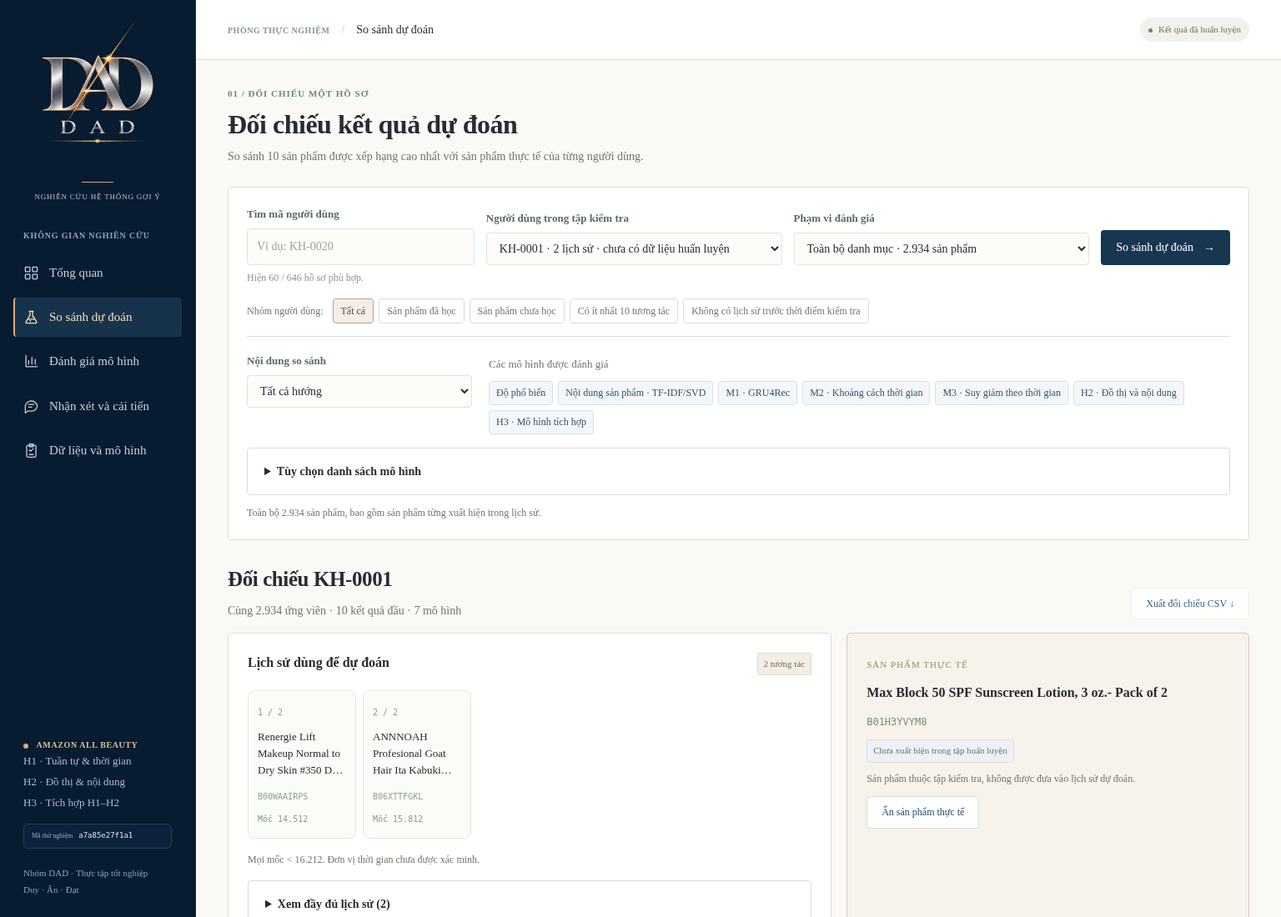
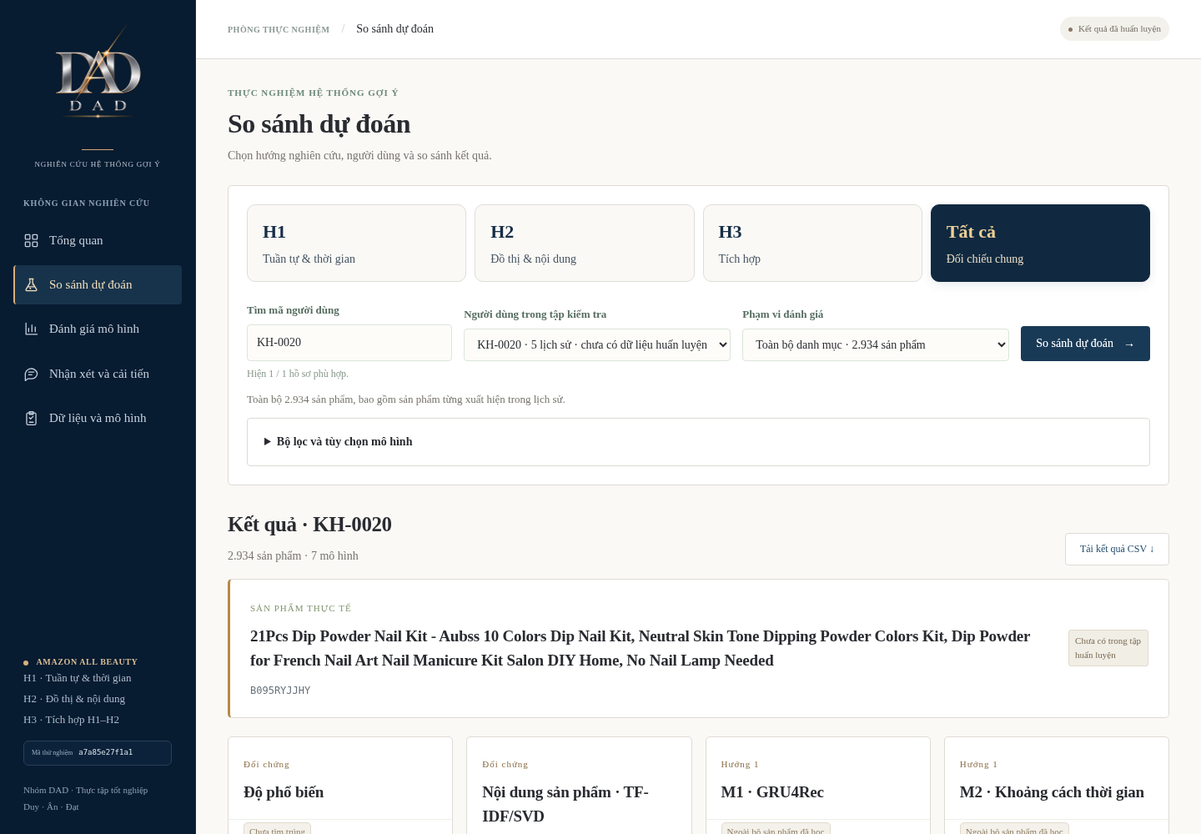
Streamline research demo with H1 H2 H3 tabs and direct comparison

diff --git a/web/static/app.js b/web/static/app.js
@@ -25,7 +25,7 @@ const routes = {
 const state = {
   bootstrap: null,
   study: null,
-  modelGroup: "all",
+  modelGroup: "h1",
   route: "overview",
   profile: "",
   query: "",
@@ -144,9 +144,9 @@ function experiment() {
   const b = state.bootstrap;
   $("#main").innerHTML =
     heading(
-      "01 / ĐỐI CHIẾU MỘT HỒ SƠ",
-      "Đối chiếu kết quả dự đoán",
-      "So sánh 10 sản phẩm được xếp hạng cao nhất với sản phẩm thực tế của từng người dùng.",
+      "THỰC NGHIỆM HỆ THỐNG GỢI Ý",
+      "So sánh dự đoán",
+      "Chọn hướng nghiên cứu, người dùng và so sánh kết quả.",
     ) +
     `<form id="experiment-form" class="panel experiment-controls"><div class="control-grid"><div><label for="profile-search">Tìm mã người dùng</label><input id="profile-search" placeholder="Ví dụ: KH-0020" value="${h(state.query)}" autocomplete="off"></div><div><label for="profile-select">Người dùng trong tập kiểm tra</label><select id="profile-select" required><option value="">Đang đọc hồ sơ…</option></select></div><div><label for="experiment-protocol">Phạm vi đánh giá</label><select id="experiment-protocol">${protocolOptions(state.protocol)}</select></div><button type="submit" class="btn" id="run-button">So sánh dự đoán <span>→</span></button></div><div class="profile-feedback" id="profile-feedback">Đang tải danh sách…</div><div class="presets"><span>Nhóm người dùng:</span>${[
       ["all", "Tất cả"],
@@ -162,6 +162,23 @@ function experiment() {
       .join(
         "",
       )} </div><div class="experiment-scope"><div><label for="model-group">Nội dung so sánh</label><select id="model-group">${state.study.groups.map((g) => `<option value="${g.id}" ${state.modelGroup === g.id ? "selected" : ""}>${h(g.label)}</option>`).join("")}<option value="custom" ${state.modelGroup === "custom" ? "selected" : ""}>Tùy chọn mô hình</option></select></div><div><span class="models-label">Các mô hình được đánh giá</span><div id="selected-models" class="selected-models">${state.selected.map((id) => `<span>${h(model(id).name)}</span>`).join("")}</div></div></div><details class="disclosure"><summary>Tùy chọn danh sách mô hình</summary><div class="model-options">${b.models.map((m) => `<label class="model-option"><input type="checkbox" name="model" value="${m.id}" ${state.selected.includes(m.id) ? "checked" : ""}>${h(m.name)}</label>`).join("")}</div></details><p class="protocol-note" id="protocol-note">${h(b.protocols[state.protocol])}</p></form><section id="case-output" aria-live="polite">${emptyCase()}</section>`;
+  const tabs = document.createElement("div");
+  tabs.className = "direction-tabs";
+  tabs.setAttribute("aria-label", "Hướng nghiên cứu");
+  tabs.innerHTML = [["h1", "H1", "Tuần tự & thời gian"], ["h2", "H2", "Đồ thị & nội dung"], ["h3", "H3", "Tích hợp"], ["all", "Tất cả", "Đối chiếu chung"]].map(([id, title, label]) => `<button type="button" data-group="${id}" aria-pressed="${state.modelGroup === id}"><strong>${title}</strong><span>${label}</span></button>`).join("");
+  $("#experiment-form").prepend(tabs);
+  tabs.addEventListener("click", (e) => {
+    const button = e.target.closest("[data-group]");
+    if (!button) return;
+    $("#model-group").value = button.dataset.group;
+    $("#model-group").dispatchEvent(new Event("change"));
+  });
+  const advanced = document.createElement("details");
+  advanced.className = "disclosure advanced-controls";
+  advanced.innerHTML = "<summary>Bộ lọc và tùy chọn mô hình</summary>";
+  const form = $("#experiment-form");
+  [$(".presets", form), $(".experiment-scope", form), $(".disclosure", form)].forEach((el) => advanced.append(el));
+  form.append(advanced);
   $("#model-group").addEventListener("change", (e) => {
     state.modelGroup = e.target.value;
     const group = state.study.groups.find((g) => g.id === state.modelGroup);
@@ -202,6 +219,7 @@ function experiment() {
   if (state.case) renderCase(state.case);
 }
 function refreshSelectedModels() {
+  $$("[data-group]").forEach((button) => button.setAttribute("aria-pressed", String(button.dataset.group === state.modelGroup)));
   const el = $("#selected-models");
   if (el)
     el.innerHTML = state.selected
@@ -299,11 +317,17 @@ async function runCase(event) {
   }
 }
 function renderCase(data) {
-  const reveal = state.reveal;
-  const history = data.history.slice(-12);
-  const total = data.history.length;
-  $("#case-output").innerHTML =
-    `<div class="section-heading"><div><h2>Đối chiếu ${h(data.profile_id)}</h2><p>Cùng ${num(data.candidate_count)} ứng viên · 10 kết quả đầu · ${data.results.length} mô hình</p></div><button class="btn btn-outline btn-small" data-action="case-csv" ${!reveal ? "disabled" : ""}>Xuất đối chiếu CSV ↓</button></div><div class="case-context"><div class="panel"><div class="history-header"><span class="profile-title">Lịch sử dùng để dự đoán</span><span class="tag">${total} tương tác</span></div>${total ? `<div class="history-timeline">${history.map((item, i) => `<div class="history-item"><small>${num(total - history.length + i + 1)} / ${total}</small><p title="${h(item.title)}">${h(item.title)}</p><code>${h(item.item_id)}</code><div><small>Mốc ${num(item.timestamp)}</small></div></div>`).join("")}</div><div class="history-info">${total > 12 ? "Hiển thị 12 tương tác cuối. " : ""}Mọi mốc &lt; ${num(data.cutoff)}. Đơn vị thời gian chưa được xác minh.</div>` : `<div class="notice notice-warning">Không có tương tác trước thời điểm kiểm tra. Các mô hình sử dụng cùng phương án dự phòng theo độ phổ biến.</div>`}<details class="disclosure"><summary>Xem đầy đủ lịch sử (${total})</summary><div class="table-wrap"><table class="metrics-table"><thead><tr><th>Thứ tự</th><th>Sản phẩm</th><th>Mốc số</th></tr></thead><tbody>${data.history.map((x, i) => `<tr><td>${i + 1}</td><td>${h(x.title)}</td><td>${num(x.timestamp)}</td></tr>`).join("")}</tbody></table></div></details></div><div class="panel target-panel"><span class="target-label">SẢN PHẨM THỰC TẾ</span>${reveal ? `<p class="target-name">${h(data.target.title)}</p><code class="target-id">${h(data.target.item_id)}</code><div><span class="tag ${data.target.warm ? "" : "tag-blue"}">${data.target.warm ? "Đã xuất hiện trong tập huấn luyện" : "Chưa xuất hiện trong tập huấn luyện"}</span></div><p class="history-info">Sản phẩm thuộc tập kiểm tra, không được đưa vào lịch sử dự đoán.</p><button class="btn btn-outline btn-small" data-action="reveal">Ẩn sản phẩm thực tế</button>` : `<h3 style="margin-top:16px">Sản phẩm cần dự đoán</h3><button class="btn" data-action="reveal">Hiện sản phẩm thực tế →</button>`}</div></div>${reveal ? `<div class="notice ${!data.target.warm ? "notice-warning" : ""}"><strong>Đặc điểm dữ liệu.</strong> ${data.fallback ? "Không có lịch sử trước thời điểm kiểm tra. Các mô hình sử dụng cùng phương án dự phòng theo độ phổ biến. " : !data.target.warm ? "Sản phẩm thực tế chưa có trong tập huấn luyện. M1/M2/M3 chưa học đầu ra cho sản phẩm này. Các sản phẩm mới bằng điểm được xếp theo mã; H2 và mô hình nội dung sử dụng đặc trưng tiêu đề." : data.history.length <= 2 ? "Sản phẩm đã có trong tập huấn luyện; lịch sử người dùng có tối đa hai tương tác. " : "Sản phẩm đã có trong tập huấn luyện và người dùng có lịch sử trước thời điểm kiểm tra. "}</div>` : ""}<div class="run-meta"><span>Mã thực nghiệm ${h(data.run_id)} · Điểm dự đoán đã lưu</span><span>Xếp hạng phía máy chủ: ${num(data.server_ms, 2)} ms · Thời gian nhận kết quả: ${num(data.roundtrip_ms, 1)} ms</span></div><div class="comparison-grid">${data.results.map((result) => `<article class="model-card"><header class="model-card-head"><div><span class="model-family">${h(model(result.model).family)}</span><h3>${h(result.name)}</h3></div><span class="hit-badge ${!reveal || !result.hit10 ? "miss-badge" : ""}">${!reveal ? "Chưa đối chiếu" : result.uses_fallback ? "Dùng phương án dự phòng" : result.target_in_learned_output === false ? "Sản phẩm ngoài bộ đã học" : result.hit10 ? "Trúng 10 kết quả đầu" : "Chưa trúng"}</span></header><ol class="ranking-list">${result.top10.map((item) => `<li class="ranking-item ${reveal && item.is_target ? "target" : ""}"><span class="ranking-pos">${String(item.rank).padStart(2, "0")}</span><div><span class="ranking-title" title="${h(item.title)}">${h(item.title)}</span><small>${h(item.item_id)} ${reveal && item.is_target ? "· SẢN PHẨM THỰC TẾ" : ""}</small></div></li>`).join("")}</ol><footer class="model-footer"><span>${reveal ? (result.target_in_learned_output === false && !result.uses_fallback ? "Không có đầu ra đã học cho sản phẩm này" : `Sản phẩm thực tế: hạng ${num(result.rank)} / ${num(data.candidate_count)}`) : "Chưa hiện sản phẩm thực tế"}</span><span>${reveal ? `NDCG ${decimal(result.ndcg10)}` : "10 kết quả đầu"}</span></footer></article>`).join("")}</div><a href="#results" class="btn btn-outline">Xem kết quả toàn tập →</a>`;
+  state.reveal = true;
+  const itemRow = (item) => `<li class="ranking-item ${item.is_target ? "target" : ""}"><span class="ranking-pos">${String(item.rank).padStart(2, "0")}</span><div><span class="ranking-title" title="${h(item.title)}">${h(item.title)}</span><small>${h(item.item_id)}${item.is_target ? " · SẢN PHẨM THỰC TẾ" : ""}</small></div></li>`;
+  $("#case-output").innerHTML = `<div class="section-heading"><div><h2>Kết quả · ${h(data.profile_id)}</h2><p>${num(data.candidate_count)} sản phẩm · ${data.results.length} mô hình</p></div><button class="btn btn-outline btn-small" data-action="case-csv">Tải kết quả CSV ↓</button></div>
+    <div class="panel compact-target"><div><span class="target-label">SẢN PHẨM THỰC TẾ</span><h3>${h(data.target.title)}</h3><code>${h(data.target.item_id)}</code></div><span class="tag">${data.target.warm ? "Đã có trong tập huấn luyện" : "Chưa có trong tập huấn luyện"}</span></div>
+    ${data.fallback ? '<div class="notice notice-warning">Không có tương tác trước thời điểm kiểm tra. Các mô hình dùng chung dự phòng theo độ phổ biến.</div>' : ""}
+    <div class="comparison-grid compact-comparison">${data.results.map((result) => {
+      const unsupported = result.target_in_learned_output === false && !result.uses_fallback;
+      const badge = result.uses_fallback ? "Dự phòng theo độ phổ biến" : unsupported ? "Ngoài bộ sản phẩm đã học" : result.hit10 ? "Tìm trúng trong 10 kết quả" : "Chưa tìm trúng";
+      return `<article class="model-card"><header class="model-card-head"><div><span class="model-family">${h(model(result.model).family)}</span><h3>${h(result.name)}</h3></div></header><div class="compact-score"><span class="hit-badge ${result.hit10 ? "" : "miss-badge"}">${badge}</span><p>${unsupported ? "Không có đầu ra đã học" : `Hạng ${num(result.rank)} / ${num(data.candidate_count)}`}<span>NDCG ${decimal(result.ndcg10)}</span></p></div><ol class="ranking-list">${result.top10.slice(0, 5).map(itemRow).join("")}</ol><details class="ranking-more"><summary>Xem hạng 6–10</summary><ol class="ranking-list">${result.top10.slice(5).map(itemRow).join("")}</ol></details></article>`;
+    }).join("")}</div>
+    <details class="disclosure"><summary>Lịch sử và thông tin thực nghiệm · ${data.history.length} tương tác</summary><div class="table-wrap"><table class="metrics-table"><thead><tr><th>Sản phẩm</th><th>Mốc số</th></tr></thead><tbody>${data.history.map((item) => `<tr><td>${h(item.title)}</td><td>${num(item.timestamp)}</td></tr>`).join("")}</tbody></table></div><p>Chỉ dùng lịch sử trước mốc ${num(data.cutoff)}; đơn vị thời gian chưa được xác minh. Sản phẩm thực tế thuộc tập kiểm tra.</p><p>Đối chiếu điểm dự đoán đã lưu, không huấn luyện lại. Mã ${h(data.run_id)} · Xếp hạng máy chủ ${num(data.server_ms, 2)} ms.</p></details><a href="#results" class="btn btn-outline">Xem đánh giá toàn tập →</a>`;
 }
 async function results() {
   const generation = state.generation;
@@ -341,7 +365,7 @@ async function results() {
         `/api/export/report.md?protocol=${protocol}&cohort=${cohort}`;
       const rows = coreRows(data.rows);
       $("#metrics-body").innerHTML =
-        `<div class="panel">${metricsTable(rows)}<p class="table-caption">Tìm trúng / số người dùng: số trường hợp dự đoán đúng trong 10 kết quả đầu trên tổng số người được đánh giá.</p></div>${metricLegend()}<details class="disclosure"><summary>Khoảng tin cậy của điểm thứ hạng</summary><div class="table-wrap"><table class="metrics-table"><thead><tr><th>Mô hình</th><th>NDCG@10</th><th>Khoảng tin cậy 95%</th></tr></thead><tbody>${rows.map((r) => `<tr><td>${h(model(r.model).name)}</td><td>${decimal(r.ndcg10)}</td><td>${decimal(r.ndcg_ci_low)} – ${decimal(r.ndcg_ci_high)}</td></tr>`).join("")}</tbody></table></div><p class="table-caption">Lấy mẫu lại theo người dùng, 500 lần; một lần khởi tạo huấn luyện.</p></details><div class="section-heading"><div><h2>So sánh NDCG@10</h2><p>Chất lượng thứ hạng của sản phẩm thực tế trong 10 kết quả đầu.</p></div></div><div class="panel">${bars(rows)}</div><div class="notice notice-warning"><strong>Cấu hình hiện tại.</strong> H2 sử dụng LightGCN và TF-IDF/SVD, chưa triển khai MiniLM. H3 có kết quả trùng mô hình đối chứng theo nội dung.</div><details class="disclosure"><summary>Cấu hình phụ và chênh lệch chỉ số</summary><div>${metricsTable(
+        `<div class="panel">${metricsTable(rows)}<p class="table-caption">Tìm trúng / số người dùng: số trường hợp dự đoán đúng trong 10 kết quả đầu trên tổng số người được đánh giá.</p></div><details class="disclosure"><summary>Ý nghĩa các chỉ số</summary>${metricLegend()}</details><details class="disclosure"><summary>Khoảng tin cậy của điểm thứ hạng</summary><div class="table-wrap"><table class="metrics-table"><thead><tr><th>Mô hình</th><th>NDCG@10</th><th>Khoảng tin cậy 95%</th></tr></thead><tbody>${rows.map((r) => `<tr><td>${h(model(r.model).name)}</td><td>${decimal(r.ndcg10)}</td><td>${decimal(r.ndcg_ci_low)} – ${decimal(r.ndcg_ci_high)}</td></tr>`).join("")}</tbody></table></div><p class="table-caption">Lấy mẫu lại theo người dùng, 500 lần; một lần khởi tạo huấn luyện.</p></details><div class="section-heading"><div><h2>So sánh NDCG@10</h2><p>Chất lượng thứ hạng của sản phẩm thực tế trong 10 kết quả đầu.</p></div></div><div class="panel">${bars(rows)}</div><div class="notice notice-warning"><strong>Cấu hình hiện tại.</strong> H2 sử dụng LightGCN và TF-IDF/SVD, chưa triển khai MiniLM. H3 có kết quả trùng mô hình đối chứng theo nội dung.</div><details class="disclosure"><summary>Cấu hình phụ và chênh lệch chỉ số</summary><div>${metricsTable(
           data.rows.filter(
             (r) => !state.bootstrap.default_models.includes(r.model),
           ),
@@ -493,6 +517,17 @@ async function methodology() {
     )
     .join("")}</div>
   <div class="section-heading"><div><h2>Diễn biến huấn luyện trên tập xác thực</h2><p>Các đường cong được lấy từ nhật ký huấn luyện đã lưu.</p></div></div><div id="training-charts">${loading()}</div><details class="disclosure"><summary>Điều kiện đánh giá</summary><div><p class="small">${h(data.time_status)}</p><p class="small">${h(data.metadata_status)}</p><p class="small">${h(b.protocols.full_catalog)} ${h(b.protocols.sampled100)}</p><p class="small">Cấu hình được chọn trên tập xác thực. Kết quả kiểm tra không được dùng để học lại trọng số.</p></div></details><div class="download-row" style="margin-top:18px"><a class="btn" href="/api/export/report.md">Tải báo cáo thực nghiệm</a><a class="btn btn-outline" href="/api/export/metrics.csv">Tải bảng kết quả</a></div>`;
+  $$(".model-definition").forEach((card) => {
+    const head = $(".model-definition-head", card);
+    const details = document.createElement("details");
+    details.className = "compact-definition";
+    const summary = document.createElement("summary");
+    summary.innerHTML = head.innerHTML;
+    head.remove();
+    details.append(summary);
+    while (card.firstChild) details.append(card.firstChild);
+    card.append(details);
+  });
   try {
     const data = await api("/api/training");
     if (generation !== state.generation) return;
@@ -568,7 +603,7 @@ function closeMenu() {
 function render() {
   if (!state.bootstrap) return;
   state.generation++;
-  const route = location.hash.slice(1) || "overview";
+  const route = location.hash.slice(1) || "experiment";
   state.route = routes[route] ? route : "overview";
   $("#view-title").textContent = routes[state.route];
   $$("[data-nav]").forEach((el) => {
@@ -621,7 +656,7 @@ async function init() {
       api("/api/bootstrap"),
       api("/api/study"),
     ]);
-    state.selected = [...state.bootstrap.default_models];
+    state.selected = [...state.study.groups.find((g) => g.id === "h1").models];
     $("#run-id").textContent = state.bootstrap.run_id;
     render();
   } catch (err) {

diff --git a/web/static/style.css b/web/static/style.css
@@ -2445,3 +2445,28 @@ select {
   }
 }
 .model-definition .metrics-table td:first-child{white-space:normal}
+
+/* Compact research workspace: keep evidence available without crowding controls. */
+.direction-tabs{display:grid;grid-template-columns:repeat(4,minmax(0,1fr));gap:10px;margin-bottom:24px}
+.direction-tabs button{display:flex;flex-direction:column;align-items:flex-start;gap:5px;padding:15px 18px;border:1px solid var(--line,#deddd7);border-radius:10px;background:#faf9f6;color:#455361;font:inherit;cursor:pointer;text-align:left}
+.direction-tabs button strong{font-size:22px;color:#172e45}
+.direction-tabs button span{font-size:14px}
+.direction-tabs button[aria-pressed="true"]{background:#102940;border-color:#102940;color:#e9ddc8;box-shadow:0 4px 12px #10294018}
+.direction-tabs button[aria-pressed="true"] strong{color:#edcf94}
+.direction-tabs button:focus-visible{outline:3px solid #b58a43;outline-offset:3px}
+.advanced-controls{margin-top:12px}.advanced-controls>.presets{margin-top:18px}
+.compact-target{display:flex;justify-content:space-between;align-items:center;gap:20px;padding:20px 24px;margin-bottom:22px;border-left:3px solid #b58a43}
+.compact-target h3{margin:7px 0;font-size:19px}.compact-target code{font-size:12px;color:#66717a}
+.compact-comparison{gap:16px}
+.compact-comparison{grid-template-columns:repeat(auto-fit,minmax(240px,1fr))}
+.compact-comparison .model-card-head{min-height:90px;padding:18px;display:block}
+.compact-comparison .model-card-head h3{font-size:19px;margin-top:6px}
+.compact-score{padding:0 18px 12px}.compact-score p{display:flex;justify-content:space-between;flex-wrap:wrap;gap:6px;font-size:13px;color:#6b7278;margin:12px 0 0}
+.compact-comparison .ranking-item{padding:12px 16px;min-height:65px}
+.ranking-more summary{cursor:pointer;padding:14px 18px;color:#82612e;font-weight:600;border-top:1px solid #ece8e0}
+.compact-comparison+.disclosure{margin:20px 0}
+.experiment-controls .protocol-note{font-size:13px;margin-bottom:0}
+@media(min-width:1000px){.dad-logo{width:145px;height:145px}.dad-brand{padding-top:6px}.page-heading{margin-bottom:24px}}
+@media(max-width:600px){.direction-tabs{gap:8px}.direction-tabs{grid-template-columns:repeat(2,minmax(0,1fr))}.direction-tabs button{padding:12px}.direction-tabs button strong{font-size:19px}.direction-tabs button span{font-size:12px}.compact-target{align-items:flex-start;flex-direction:column;padding:18px}.compact-comparison{grid-template-columns:minmax(0,1fr)}}
+
+.compact-definition>summary{cursor:pointer;padding:4px 0;color:#243c50}.compact-definition>summary h3{display:inline;font-size:21px}.compact-definition>summary>span{display:block;font-size:14px;color:#737b80;margin:8px 0 0 20px}.compact-definition[open]>summary{margin-bottom:22px}

diff --git a/web/index.html b/web/index.html
@@ -16,7 +16,7 @@
   <body>
     <a class="skip" href="#main">Đến nội dung chính</a>
     <aside class="sidebar" id="sidebar">
-      <a class="brand dad-brand" href="#overview" aria-label="DAD — Tổng quan">
+      <a class="brand dad-brand" href="#experiment" aria-label="DAD — Thực nghiệm">
         <img
           class="dad-logo"
           src="/static/dad-logo-transparent.png?v=__ASSET_VERSION__"

diff --git a/scripts/browser_smoke.py b/scripts/browser_smoke.py
@@ -1,68 +1,54 @@
-"""Optional browser acceptance check; requires Playwright and local Chromium."""
-import argparse
+"""Exercise the compact research workspace on desktop and mobile."""
+import os
 from pathlib import Path
 from playwright.sync_api import sync_playwright
 
-ROOT=Path(__file__).resolve().parents[1]
-def main(base):
-    errors=[]
+ROOT = Path(__file__).resolve().parents[1]
+BASE = os.getenv('BASE_URL', 'http://127.0.0.1:8000')
+
+def main():
     with sync_playwright() as p:
-        browser=p.chromium.launch(executable_path='/usr/bin/chromium',headless=True,args=['--no-sandbox'])
-        page=browser.new_page(viewport={'width':1536,'height':1100});page.on('pageerror',lambda e:errors.append(str(e)))
-        page.goto(base,wait_until='networkidle')
-        page.get_by_role('heading',name='Ba hướng thực nghiệm').wait_for()
-        assert 'DAD' in page.title()
-        page.screenshot(path=str(ROOT/'docs/screenshots/research-web-overview.png'))
-        page.locator('a[data-nav=experiment]').click()
+        browser = p.chromium.launch(executable_path='/usr/bin/chromium', headless=True, args=['--no-sandbox'])
+        page = browser.new_page(viewport={'width':1440,'height':1000})
+        errors = []
+        page.on('pageerror', lambda e: errors.append(str(e)))
+        page.goto(BASE, wait_until='networkidle')
         page.wait_for_function('document.querySelector("#profile-select")?.value?.startsWith("KH-")')
-        page.get_by_role('button',name='So sánh dự đoán',exact=False).click()
-        page.locator('.model-card').first.wait_for();assert page.locator('.model-card').count()==7
-        assert page.locator('.target-name').count()==0
-        page.get_by_role('button',name='Hiện sản phẩm thực tế',exact=False).click();page.locator('.target-name').wait_for()
+        assert page.locator('[data-group=h1]').get_attribute('aria-pressed') == 'true'
+        assert page.locator('.advanced-controls').get_attribute('open') is None
+        for group, count in [('h1',4),('h2',3),('h3',4),('all',7)]:
+            page.locator(f'[data-group={group}]').click()
+            page.locator('#run-button').click()
+            page.wait_for_function(f'document.querySelectorAll(".model-card").length === {count}')
+            assert page.locator('.compact-target').is_visible()
+            assert page.locator('.model-card > .ranking-list').first.locator('li').count() == 5
+            page.locator('.ranking-more summary').first.click()
+            assert page.locator('.ranking-more').first.locator('li').count() == 5
         with page.expect_download() as download:
-            page.get_by_role('button',name='Xuất đối chiếu CSV',exact=False).click()
+            page.locator('[data-action=case-csv]').click()
         assert download.value.suggested_filename.endswith('.csv')
+        page.locator('#profile-search').fill('KH-0020')
+        page.wait_for_function('document.querySelector("#profile-select").value === "KH-0020"')
+        assert page.locator('.model-card').count() == 0
+        page.locator('#run-button').click()
+        page.locator('.model-card').first.wait_for()
         page.screenshot(path=str(ROOT/'docs/screenshots/research-web-case.png'))
-        # Each research group must select the actual components used for that experiment.
-        for group,count in [('h1',4),('h2',3),('h3',4)]:
-            page.select_option('#model-group',group)
-            page.get_by_role('button',name='So sánh dự đoán',exact=False).click()
-            page.locator('.model-card').first.wait_for()
-            assert page.locator('.model-card').count()==count
-        page.select_option('#model-group','all')
-        # Search changing the selected profile must invalidate the previously displayed result.
-        page.fill('#profile-search','KH-0020')
-        page.wait_for_function('document.querySelector("#profile-select")?.value==="KH-0020"')
-        assert page.locator('.model-card').count()==0
-        page.get_by_role('button',name='So sánh dự đoán',exact=False).click();page.locator('.model-card').first.wait_for()
-        page.get_by_role('button',name='Không có lịch sử trước thời điểm kiểm tra',exact=True).click()
-        page.wait_for_function('document.querySelector("#profile-select").selectedOptions[0].textContent.includes("0 lịch sử")')
-        page.get_by_role('button',name='So sánh dự đoán',exact=False).click()
-        page.get_by_text('Không có tương tác trước thời điểm kiểm tra.',exact=False).wait_for()
-        page.locator('a[data-nav=results]').click();page.locator('#metrics-body table').first.wait_for()
-        page.select_option('#metrics-cohort','cold')
-        page.wait_for_function('document.querySelector("#metric-context").textContent.includes("550")')
-        page.select_option('#metrics-protocol','sampled100')
-        page.wait_for_function('document.querySelector("#metric-context").textContent.includes("99 sản phẩm đối chứng")')
-        page.screenshot(path=str(ROOT/'docs/screenshots/research-web-results.png'))
-        page.locator('a[data-nav=discussion]').click();page.locator('#discussion-evidence .stats').wait_for()
-        page.screenshot(path=str(ROOT/'docs/screenshots/research-web-discussion.png'))
-        page.locator('a[data-nav=method]').click();page.locator('.training-panel').first.wait_for();assert page.locator('.model-definition').count()==3;assert page.locator('#direction-h3').get_by_text('Trọng số H1',exact=True).count()==1
-        page.screenshot(path=str(ROOT/'docs/screenshots/research-web-method.png'))
-        page.locator('#direction-h1').scroll_into_view_if_needed()
-        page.screenshot(path=str(ROOT/'docs/screenshots/research-web-model-definitions.png'))
-        mobile=browser.new_page(viewport={'width':390,'height':844},is_mobile=True,has_touch=True)
-        mobile.goto(base,wait_until='networkidle');mobile.get_by_role('heading',name='Ba hướng thực nghiệm').wait_for()
-        mobile.screenshot(path=str(ROOT/'docs/screenshots/research-web-mobile.png'))
-        mobile.locator('#menu-button').click();mobile.locator('a[data-nav=experiment]').click()
+        for route, selector in [('results','#metrics-body table'),('discussion','#discussion-evidence .stats'),('method','.model-definition')]:
+            page.locator(f'a[data-nav={route}]').click()
+            page.locator(selector).first.wait_for()
+            assert page.evaluate('document.documentElement.scrollWidth <= innerWidth')
+        mobile = browser.new_page(viewport={'width':390,'height':844}, is_mobile=True, has_touch=True)
+        mobile.on('pageerror', lambda e: errors.append(str(e)))
+        mobile.goto(BASE, wait_until='networkidle')
         mobile.wait_for_function('document.querySelector("#profile-select")?.value?.startsWith("KH-")')
-        mobile.get_by_role('button',name='So sánh dự đoán',exact=False).click();mobile.locator('.model-card').first.wait_for()
-        assert mobile.evaluate('document.documentElement.scrollWidth<=innerWidth')
-        mobile.locator('#menu-button').click();mobile.locator('a[data-nav=method]').click()
-        mobile.locator('.model-definition').first.wait_for()
-        assert mobile.evaluate('document.documentElement.scrollWidth<=innerWidth')
-        assert not errors,errors
-        print('PASS: DAD branding, seven-model comparison including H3, reveal, CSV, profile invalidation, fallback, cohort/protocol changes, discussion, training curves, mobile; no JS errors.')
+        mobile.locator('[data-group=h3]').click()
+        mobile.locator('#run-button').click()
+        mobile.locator('.model-card').first.wait_for()
+        assert mobile.evaluate('document.documentElement.scrollWidth <= innerWidth')
+        mobile.screenshot(path=str(ROOT/'docs/screenshots/research-web-mobile.png'))
+        assert not errors, errors
         browser.close()
-if __name__=='__main__':
-    parser=argparse.ArgumentParser();parser.add_argument('--base',default='http://127.0.0.1:8501');args=parser.parse_args();main(args.base)
+        print('PASS: H1/H2/H3/all, direct comparison, expanded rankings, CSV, stale result invalidation, research pages and mobile; no JavaScript errors.')
+
+if __name__ == '__main__':
+    main()

diff --git a/docs/UI_REVIEW.md b/docs/UI_REVIEW.md
@@ -1,0 +1,17 @@
+# Rà soát giao diện thực nghiệm
+
+- Mở trang vào chức năng so sánh; mặc định nhóm H1.
+- Chọn H1/H2/H3 hoặc tất cả bằng nút riêng; bộ lọc và tùy chọn mô hình nằm trong mục mở rộng.
+- Hiện trực tiếp sản phẩm thực tế, trạng thái tìm trúng, thứ hạng và NDCG.
+- Mỗi mô hình hiện 5 sản phẩm đầu; mở rộng để xem hạng 6–10. Xuất CSV gồm đủ kết quả.
+- Lịch sử, thông tin kỹ thuật, giải nghĩa chỉ số và định nghĩa mô hình được thu gọn.
+- Giữ Times New Roman, logo DAD trong suốt và màu xanh đậm.
+
+## Kiểm chứng
+
+`python -m unittest discover -s tests -q`: 21 bài, 20 đạt, 1 bỏ qua.
+`python scripts/browser_smoke.py`: kiểm tra H1/H2/H3/tất cả, CSV, thay đổi hồ sơ, các trang nghiên cứu và điện thoại 390px; không có lỗi JavaScript.
+
+## Phạm vi kết quả
+
+Không huấn luyện lại hoặc sửa chỉ số. Toàn danh mục: mô hình nội dung và H3 tìm trúng 22/646 (3,41%). H3 hiện trùng mô hình nội dung; chưa chứng minh cải thiện tích hợp. Demo đối chiếu điểm dự đoán đã lưu, chưa có kiểm chứng hiệu quả doanh nghiệp thực tế.
